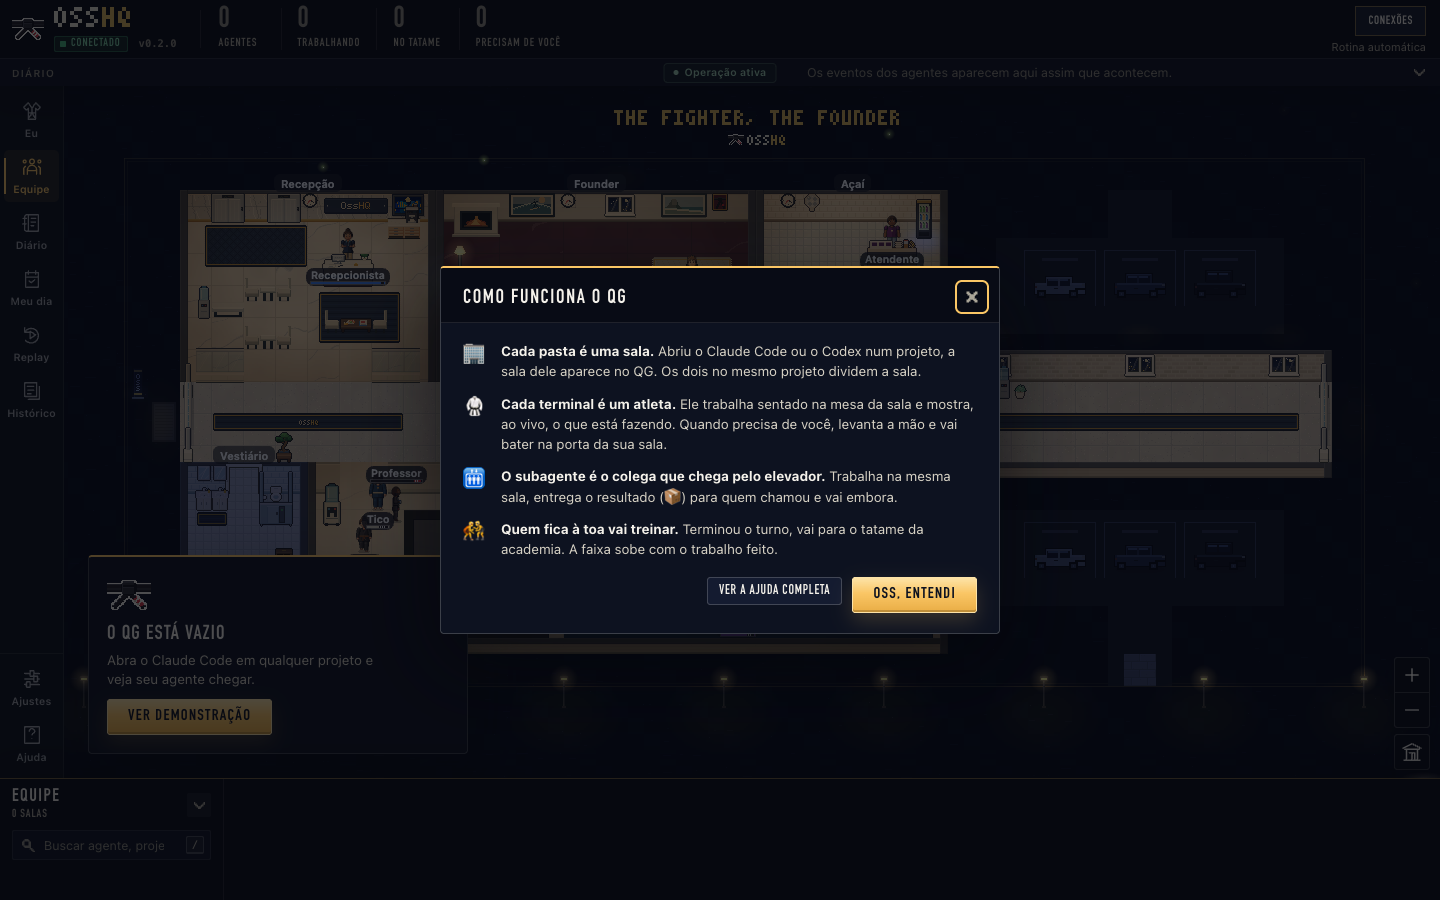
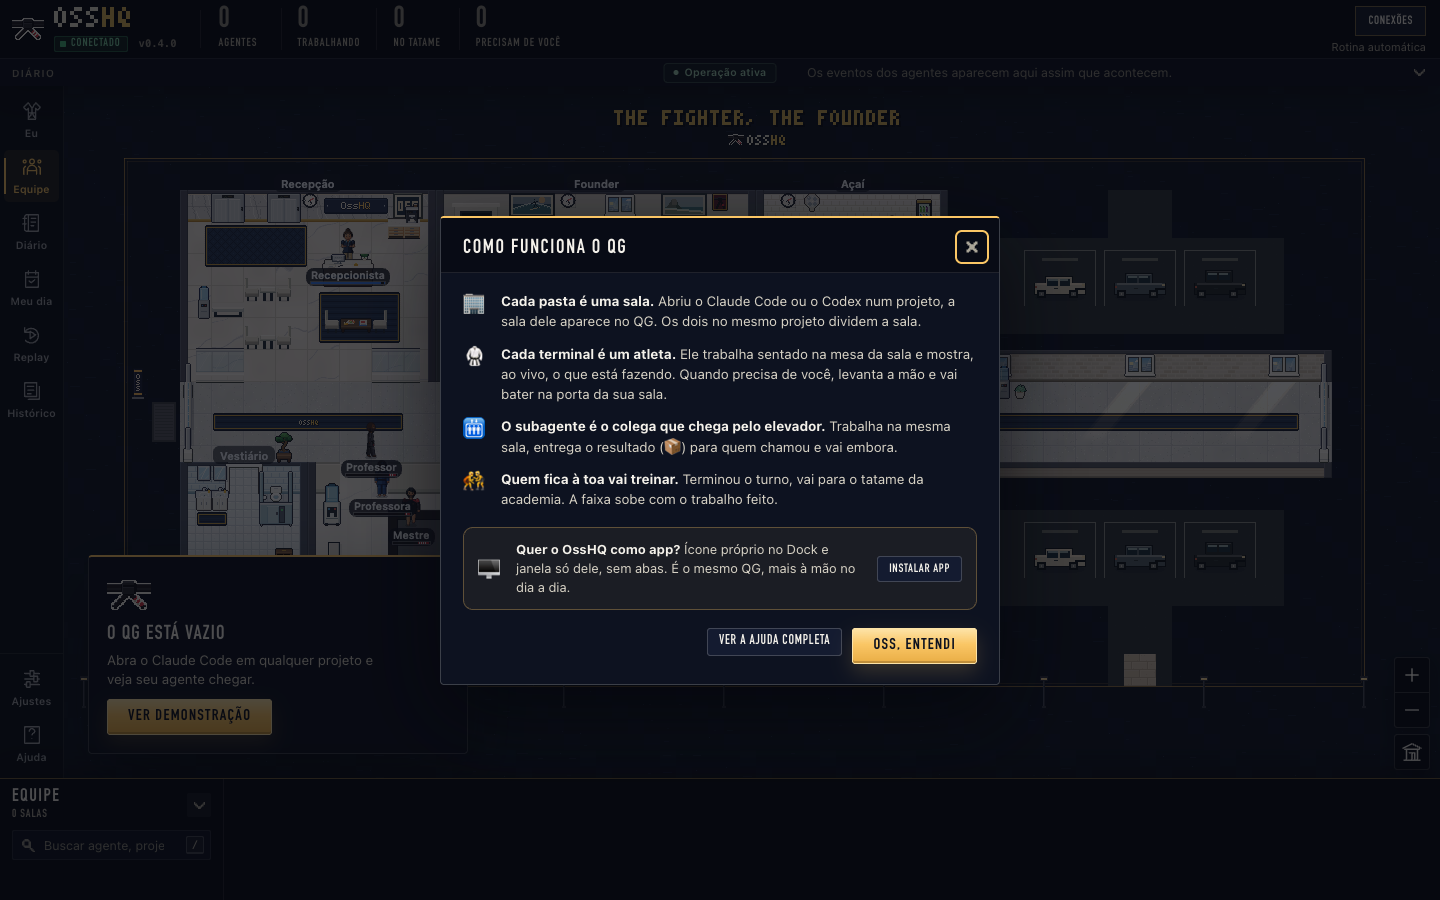
docs: o passo 1 mostra o convite para usar o QG como app
Com a 0.4.0, a primeira tela oferece instalar o QG como app: um clique em Instalar app no Chrome e no Edge,
Arquivo › Adicionar ao Dock no Safari. A foto é a primeira tela de uma instalação real da v0.4.0.

diff --git a/README.md b/README.md
@@ -47,11 +47,12 @@ O Node.js vem dentro do app: sem npm, git nem Docker.
 
 ## Primeiros passos
 
-**1. Abra o QG.** Ele fica em **http://localhost:4747** e liga sozinho junto com o computador: deixe nos favoritos. Na
-primeira vez ele está vazio e mostra como funciona.
+**1. Abra o QG.** No fim da instalação ele abre sozinho no navegador, em **http://localhost:4747**, e daí em diante liga
+junto com o computador. Na primeira vez ele está vazio, mostra como funciona e oferece virar app, com ícone no Dock e
+janela própria: no Chrome e no Edge é um clique em **Instalar app**; no Safari, *Arquivo › Adicionar ao Dock*.
 
 <p align="center">
-  <img src="assets/passo-qg-vazio.png" width="820" alt="O QG recém-instalado: vazio, com o guia Como funciona o QG e o card O QG está vazio com o botão Ver demonstração" />
+  <img src="assets/passo-qg-vazio.png" width="820" alt="O QG recém-instalado: vazio, com o guia Como funciona o QG, o convite Quer o OssHQ como app com o botão Instalar app e o card O QG está vazio" />
 </p>
 
 **2. Uma pasta por projeto.** Crie uma pasta para cada projeto, por exemplo `Documentos/Projetos/Loja`. Cada pasta vira

diff --git a/README.en.md b/README.en.md
@@ -47,11 +47,12 @@ Node.js ships inside the app: no npm, git or Docker.
 
 ## First steps
 
-**1. Open the HQ.** It lives at **http://localhost:4747** and starts with your computer: bookmark it. The first time it
-is empty and shows how it works.
+**1. Open the HQ.** At the end of the install it opens by itself in your browser, at **http://localhost:4747**, and from
+then on it starts with your computer. The first time it is empty, shows how it works and offers to become an app, with
+its own Dock icon and window: in Chrome and Edge it is one click on **Install app**; in Safari, *File › Add to Dock*.
 
 <p align="center">
-  <img src="assets/passo-qg-vazio.png" width="820" alt="The freshly installed HQ: empty, with the How the HQ works guide and the empty-HQ card with the See demo button" />
+  <img src="assets/passo-qg-vazio.png" width="820" alt="The freshly installed HQ: empty, with the How the HQ works guide, the Want OssHQ as an app invitation with the Install app button and the empty-HQ card" />
 </p>
 
 **2. One folder per project.** Create a folder for each project, for example `Documents/Projects/Shop`. Each folder
